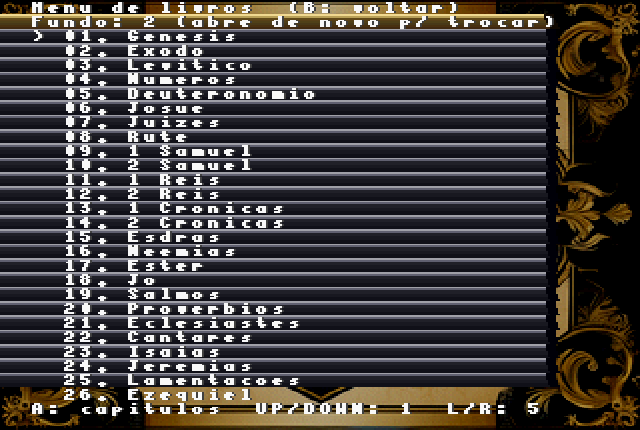
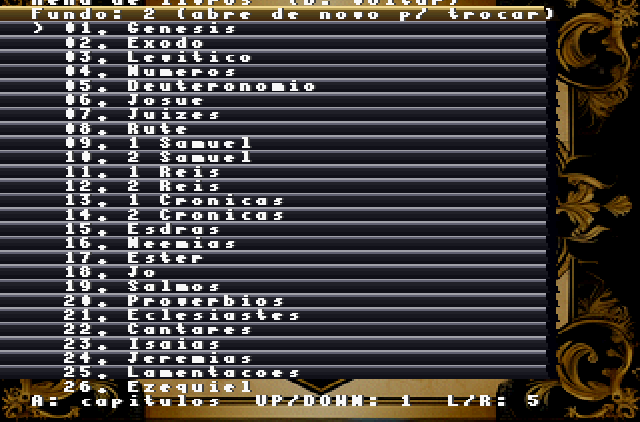
Atualiza screenshots sem cabecalho e adiciona legendas

diff --git a/README.md b/README.md
@@ -15,9 +15,16 @@ Esses dois arquivos são a release final que deve ficar versionada no repositór
 
 ## Screenshots
 ![Screenshot 1](saturn_app/1.png)
+*Legenda: Menu de livros.*
+
 ![Screenshot 2](saturn_app/2.png)
+*Legenda: Seleção de capítulos.*
+
 ![Screenshot 3](saturn_app/3.png)
+*Legenda: Tela de leitura.*
+
 ![Screenshot 4](saturn_app/4.png)
+*Legenda: Variação do menu de capítulos.*
 
 ## Estrutura principal
 - `saturn_app/`: código-fonte da aplicação Saturn e artefatos de build.
